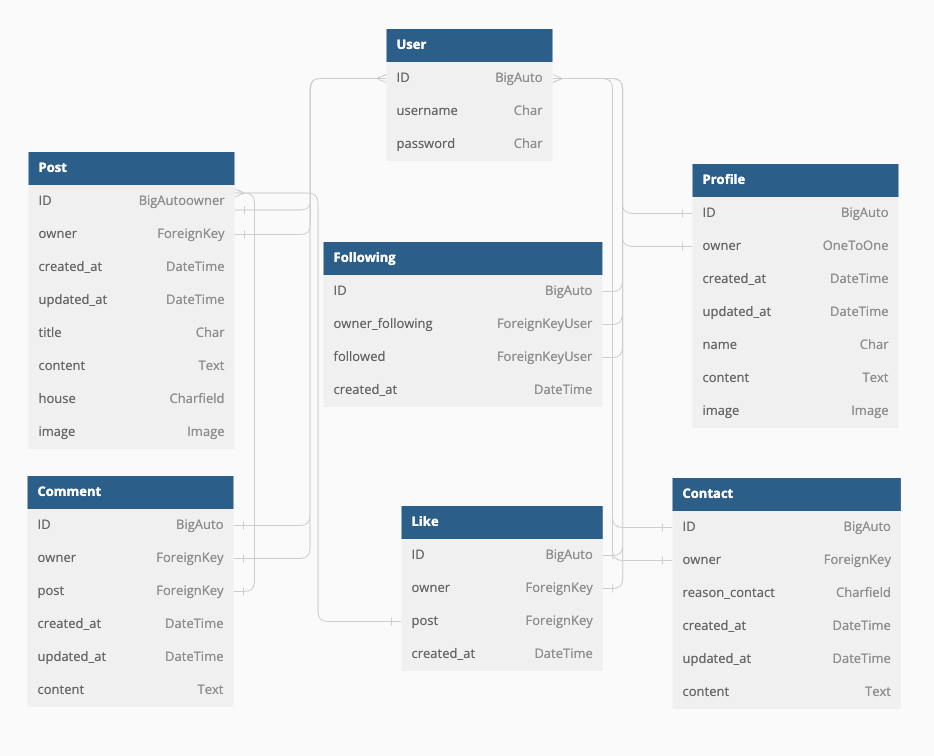
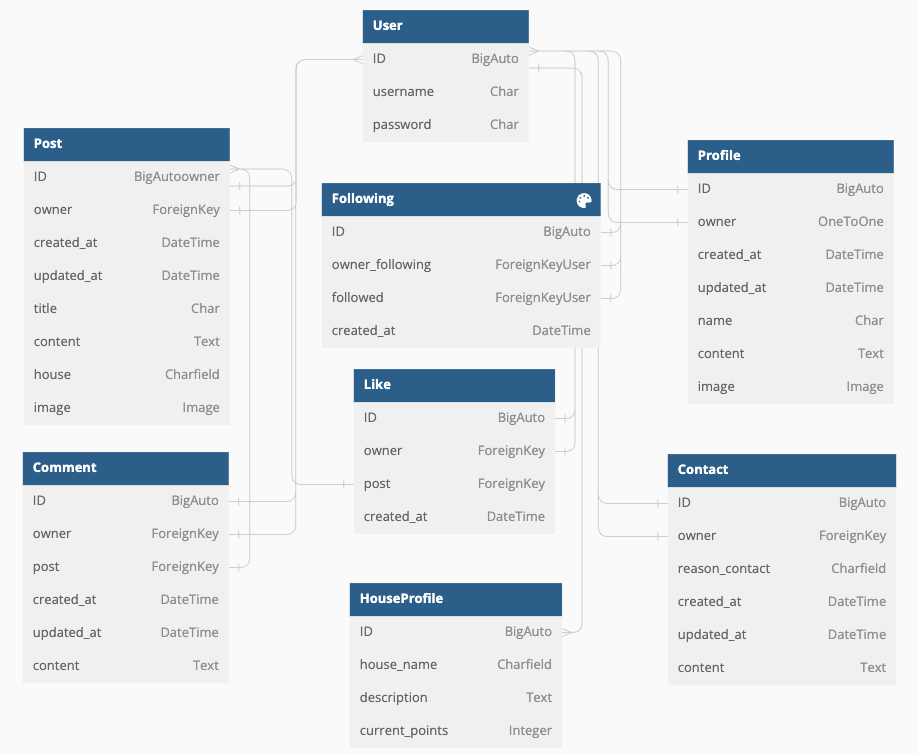
docs: Update README md

diff --git a/TESTING.md b/TESTING.md
@@ -7,6 +7,7 @@
   - [Endpoint Testing](#endpoint-testing)
   - [CRUD Functionality Testing](#crud-functionality-testing)
     - [Comments App](#comments-app)
+    - [Houses App](#houses-app)
     - [Contacts App](#contacts-app)
     - [Followers App](#followers-app)
     - [Likes App](#likes-app)
@@ -40,6 +41,8 @@ Manual testing took place throughout development of the API to ensure features f
 | root | :white_check_mark: |
 | /comments/ | :white_check_mark: |
 | /comments/\<id>/ | :white_check_mark: |
+| /houses/ | :white_check_mark: |
+| /houses/\<id>/ | :white_check_mark: |
 | /contacts/ | :white_check_mark: |
 | /contacts/\<id>/ | :white_check_mark: |
 | /followers/ | :white_check_mark: |
@@ -50,6 +53,7 @@ Manual testing took place throughout development of the API to ensure features f
 | /posts/\<id>/ | :white_check_mark: |
 | /profiles/ | :white_check_mark: |
 | /profiles/\<id>/ | :white_check_mark: |
+
 
 ### CRUD Functionality Testing
 
@@ -62,6 +66,14 @@ Manual testing took place throughout development of the API to ensure features f
 | Comments | Update | 200 Response |403 Response | :white_check_mark: |
 | Comments | Delete | 200 Response | 403 Response | :white_check_mark: |
 
+#### Houses App
+
+| App | Action | Authenticated | Unauthenticated | Passed |
+|---|---|---|---|---|
+| Houses | Create | N/A | N/A  | N/A |
+| Houses | Read (List) | 200 Response | N/A | :white_check_mark: |
+| Houses | Update | N/A | N/A  | N/A |
+| Houses | Delete | N/A | N/A  | N/A |
 
 #### Contacts App
 
@@ -70,7 +82,7 @@ Manual testing took place throughout development of the API to ensure features f
 | Contacts | Create | 201 Response | N/A | :white_check_mark: |
 | Contacts | Read (List) | N/A | N/A | N/A |
 | Contacts | Update | N/A| N/A | N/A |
-| Contacts | N/A | N/A | N/A  | N/A |
+| Contacts | Delete | N/A | N/A  | N/A |
 
 #### Followers App
 
